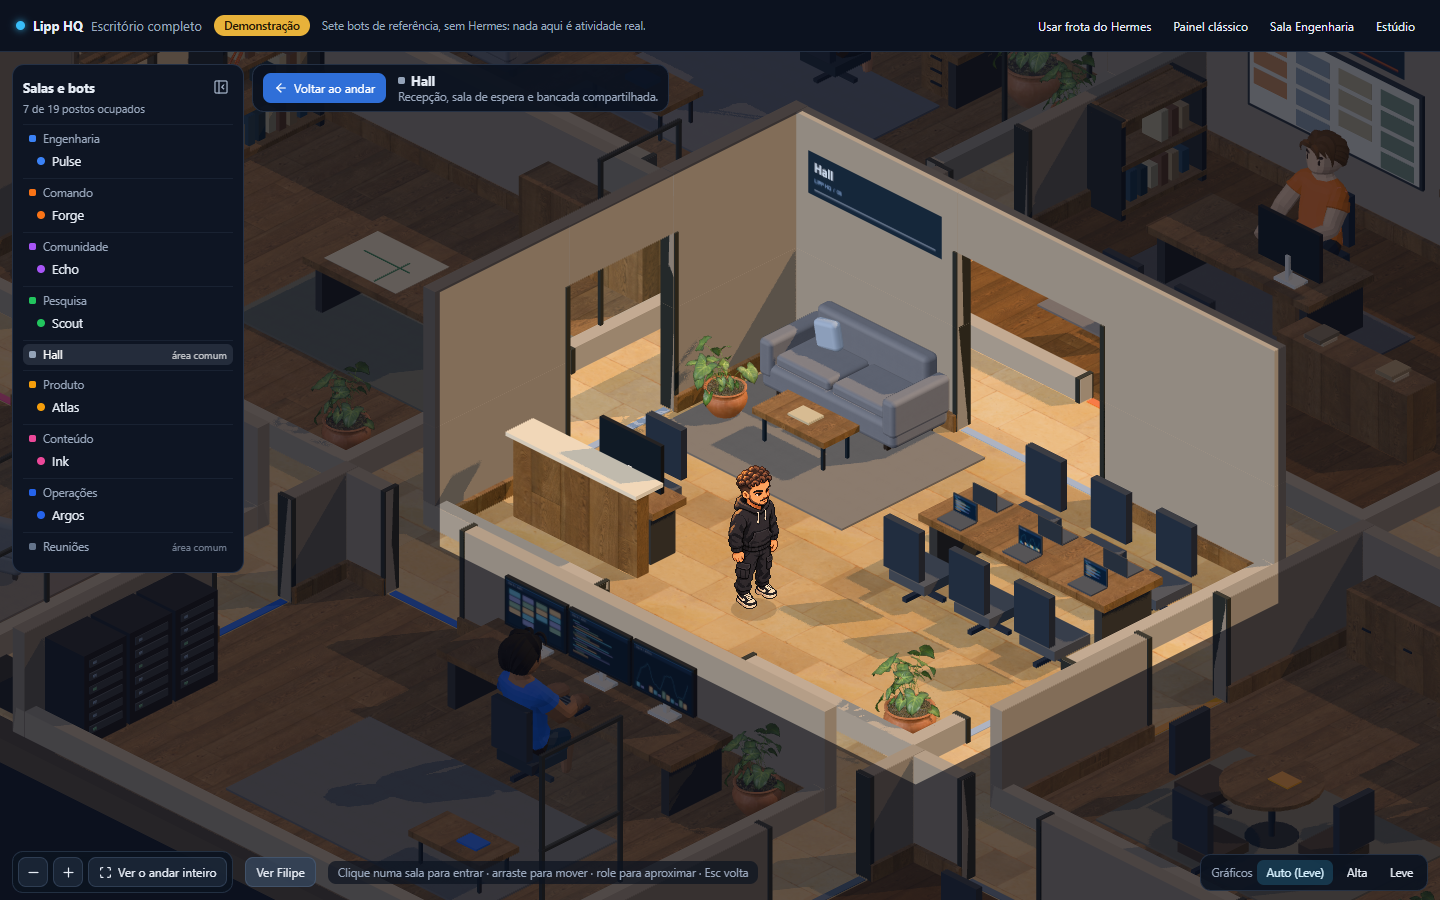
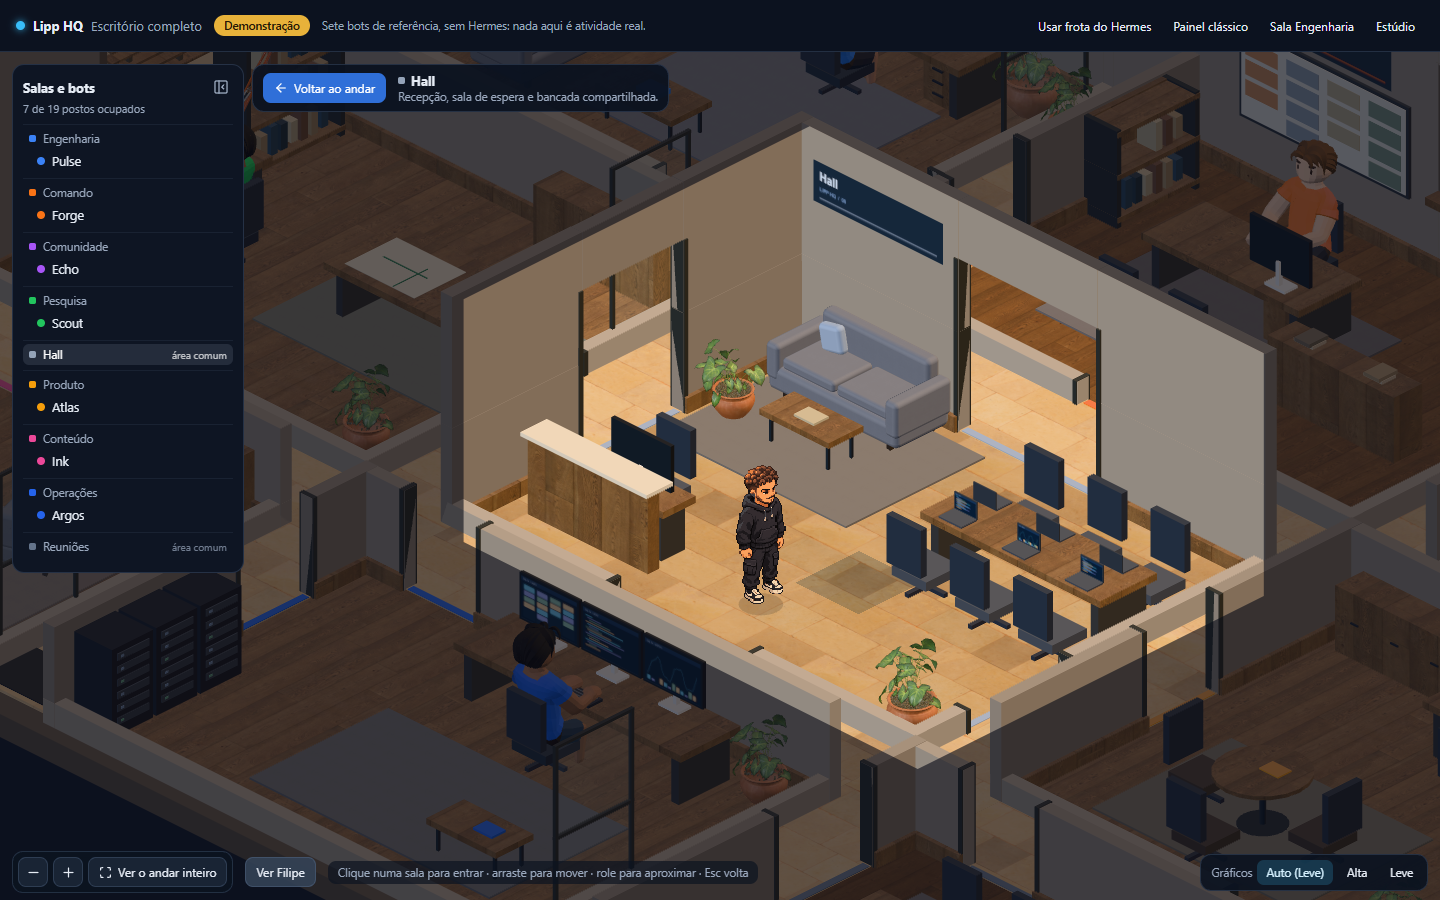
docs(personagens): explica como refazer o sprite e atualiza a evidência
Sem isso, a próxima arte não teria o passo a passo nem de onde vêm as medidas
usadas no componente. A captura passa a mostrar o sprite na grade real.

diff --git a/lipp-hq-world/public/characters/filipe/README.md b/lipp-hq-world/public/characters/filipe/README.md
@@ -1,7 +1,20 @@
 # Filipe na demonstração
-demo-isometric.png é a arte derivada da ficha v1 para a câmera elevada do escritório.
-Gerado com imagegen integrado; fonte: exec-cbce293f-6146-4dd6-bd40-dcbafc5952ba.png.
-Canvas 1168x1346. Limites alpha >=128: (390,191)..(743,1182).
-Sprite estático, somente demonstração. Âncora na sola e escala com projeção a 30 graus.
-A iluminação está desenhada no sprite; não responde dinamicamente às luzes do cenário.
-Verificação: build (inclui TypeScript), lint e captura real do hall por Playwright.
+
+`demo-isometric.png` é a arte para a câmera elevada do escritório, derivada da ficha v1
+(`docs/characters/filipe/`). Tela de 53×132 px, com blocos regulares e 28 cores.
+
+Sprite estático, somente demonstração. A sola fica no ponto do chão, e a altura considera
+a câmera a 30 graus. A luz está desenhada na arte: ela não responde às luzes do cenário.
+
+## Como refazer
+
+A fonte é `docs/characters/filipe/isometrico-fonte.png`, gerada por imagem, com "pixels"
+irregulares em 1168×1346 px. O script reduz para a grade real e aplica os retoques da ficha:
+
+```sh
+blender --background --factory-startup --python scripts/characters/pixelize-sprite.py -- \
+  docs/characters/filipe/isometrico-fonte.png public/characters/filipe/demo-isometric.png
+```
+
+Se a tela ou a sola mudarem, atualize as medidas em `src/world/office/FilipeDemoSprite.tsx`:
+o script imprime os valores.
